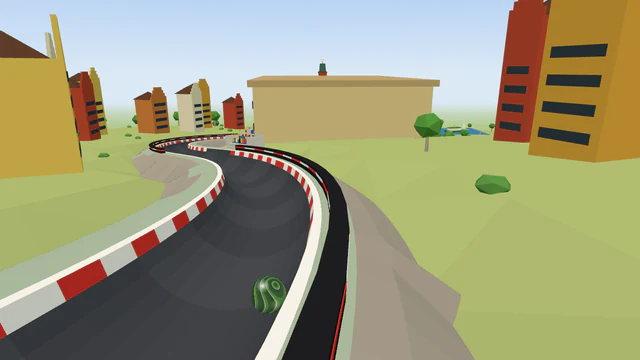
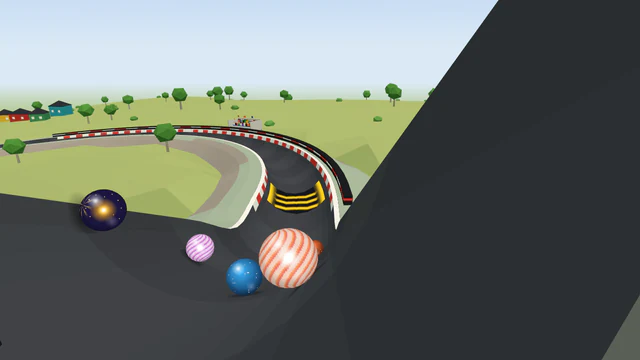
Stockholm Marble Grand Prix: its own layout; its records start again
Moses approved the plan on 6 Nov 2026 (claude/grand-prix-relayout-plan.md). Until now Stockholm was
physically the same track as Sydney and Lagos. Now a split start down the Södermalm cliffs, then the
library's climb-drop layout mirrored: the Katarina crest and the Slussen drop (the big feature and
new signature), the Gamla Stan S-bends (85°, a little steeper) and splitter (tip and inside channel
tuned), City Hall hairpin, Djurgården spiral, Strandvägen (a little steeper). Start shots: a chase,
then a low chase. Full report: all 56 lines pass (winner 49.1 s, last 81.5 s, gap 17.8 s, 63
overtakes). Data update 2027-06-01-stockholm-marble-grand-prix-new-layout.sql (--relayout: sets
tracks.records_since, so its track record, country records and personal bests start again). Off the
sameness test's known failures. The data-update test knows the --relayout form. Docs: 06, README.

Claude-Session: https://claude.ai/code/session_011vSSkqNPL9kncfzrwF15wS

diff --git a/src/tracks/stockholm-marble-grand-prix.js b/src/tracks/stockholm-marble-grand-prix.js
@@ -1,62 +1,71 @@
 'use strict';
 
-const { track, plunge, straight, sBends, sweep, spiral, hairpin, splitter, runIn, pileUp, swipe, parked, slalom, boost, rumble } = require('../trackKit');
+// Stockholm Marble Grand Prix, its own layout (Moses, 6 Nov 2026: approved as planned in
+// claude/grand-prix-relayout-plan.md). Until then it was the same track as Sydney and Lagos
+// (the Grand Prix recipe of 10 Oct 2026, mirrored); now a split start down the Södermalm cliffs,
+// over the Katarina crest and down the Slussen drop (the big feature), through Gamla Stan and round
+// it by the splitter, past City Hall and round Djurgården to the steamboats on Strandvägen. Its
+// records started again with the new layout (tracks.records_since).
+const { track, opening, layout, sBends, straight } = require('../trackKit');
+
+// Two changes to the layout, tuned over 3,000-race reports (6 Nov 2026):
+// - the Gamla Stan S-bends turn 85° each way rather than 70°: out of the 70° bends the leaders took the splitter's
+//   right-hand channel far more often than their share (64.7% of the wins with 55.8% of the marbles); out of 85° bends
+//   they come to it spread across the channel. They are a little steeper too (0.15, not 0.13), as the deeper bends
+//   slowed the back of the field (the median race's winner-to-last gap went to 18.1 s; at most 18);
+// - Strandvägen, the last straight, a little steeper (0.18, not 0.15), for the same gap.
+const deeperBends = (sections) => {
+  const out = sections.map((s) => (s.layoutKey === 'sBends' ? { ...s, shape: sBends({ first: 'right', radius: 75, degrees: 85, grade: 0.15 }) }
+    : s.layoutKey === 'lastStraight' ? { ...s, shape: straight(60, { grade: 0.18 }) } : s));
+  out.layout = sections.layout;
+  return out;
+};
 
 module.exports = track({
   slug: 'stockholm-marble-grand-prix',
   name: 'Stockholm Marble Grand Prix',
   difficulty: 'extreme',
-  description: 'A home race across Stockholm\'s islands and bridges: down the Södermalm cliffs, through Gamla Stan\'s narrow lanes, over the water past City Hall and round Djurgården to the steamboats on Strandvägen.',
+  description: 'A home race across Stockholm\'s islands and bridges: twin chutes down the Södermalm cliffs, over the Katarina crest and down the Slussen drop to the water, round Gamla Stan on both sides, past City Hall and round Djurgården to the steamboats on Strandvägen.',
   surface: 'asphalt',
   biome: 'city',
   lighting: 'day',
   variants: ['sunset', 'midnight-sun'],
   grandPrix: true,
-  signature: 'Bridge sweep',
+  signature: 'Slussen drop',
   tvCameras: [
-    { section: 'Bridge sweep', at: 0.8, side: 'right', distance: 6, height: 8 },
-    { section: 'Island splitter', at: 0.6, side: 'right', distance: 6, height: 5 },
+    // (At the foot of the drop, looking back up it with Södermalm behind.)
+    { section: 'Slussen drop', at: 0.95, side: 'right', distance: 6, height: 6 },
+    { section: 'Gamla Stan splitter', at: 0.6, side: 'right', distance: 6, height: 5 },
   ],
   billboardFrame: 'plain',
-  start: { scenery: ['colourful-houses'], shots: { countdown: 'front', launch: 'high-behind' } },
+  start: { scenery: ['colourful-houses'], gate: 'paddle', shots: { countdown: 'chase', launch: 'low-chase' } },
   finish: { landmark: 'steamboats', scenery: ['grandstand'] },
   designChanges: [
-    'The traffic-cone chicane is at the foot of the Södermalm plunge, straight after the tyre stacks, rather than in the Gamla Stan S-bends: on the bends it left too few overtakes and the field reached the splitter sorted so that one channel never gave its marbles a fair share of wins (measured on Dubai Marble Grand Prix, the same layout).',
-    'The Island splitter comes straight after the Gamla Stan S-bends, before the Bridge sweep, rather than after the City Hall hairpin: out of the hairpin the whole field rides one side of the channel and the splitter cannot share it out fairly (measured on Dubai Marble Grand Prix).',
-    'At the Island splitter the two channels run on the island\'s shores either side of it rather than each on its own bridge: the recipe allows no bridge under a splitter (its two channels have nothing proven to stand on).',
-    'The Bridge sweep\'s billboards stand along the straight to City Hall instead: the recipe has nowhere to stand a billboard on a bridge.',
-    'A 50 m straight, "Run to City Hall", before the City Hall hairpin: the recipe needs a braking zone before the one sharp bend.',
-    'The rumble strips and the parked safety car are on a straight, "Strandvägen", between the spiral and the finish rather than on the spiral and the run-in: the recipe keeps bumps off bends and the last 25 m before the line clear.',
+    'A new layout (6 Nov 2026): until then Stockholm was physically the same track as Sydney and Lagos Marble Grand Prix (the Grand Prix recipe, mirrored), so on one seed the three ran the same race. Its old signature, the Bridge sweep, was the same piece as Lagos\'s Lagoon bridge and goes.',
+    'The split start (twin chutes down the Södermalm cliffs, merging again at Slussen): no other Grand Prix track opens this way, and its start shots (a chase, then a low chase) are its own.',
+    'The rest is the library\'s climb-drop layout, mirrored, as proven on its test track: no live track uses it. Its big feature is the Slussen drop, a short climb over the Katarina crest and a 60 m drop with a slalom down to the water; its second, a splitter round Gamla Stan, with the Gamla Stan S-bends turned deeper (85°) and the splitter\'s tip and inside channel tuned so its two channels share the wins and places fairly.',
   ],
-  sections: [
-    {
-      name: 'Södermalm plunge', shape: plunge(80, { grade: 0.6 }),
-      obstacles: [pileUp({ costume: 'tyre-stack', at: 0.42 }), slalom({ costume: 'traffic-cone', from: 0.55, to: 0.97, count: 6, loss: 0.3 })],
-      scenery: ['colourful-houses'],
+  opening: opening('split-start', {
+    costumes: { block: 'tyre-stack', slalom: 'traffic-cone' },
+    names: { plunge: 'Södermalm plunge', chutes: 'Södermalm twin chutes', after: 'Down to Slussen' },
+    dress: { plunge: { scenery: ['colourful-houses'] }, chutes: { scenery: ['colourful-houses'] } },
+  }),
+  sections: deeperBends(layout('climb-drop', {
+    mirror: true,
+    costumes: { peg: 'traffic-cone', slalom: 'traffic-cone', swipe: 'camera-crane' },
+    dress: {
+      sweep: { name: 'Riddarfjärden sweep', scenery: ['crowd'] },
+      approach: { name: 'Run to the climb' },
+      climb: { name: 'Katarina crest', scenery: ['colourful-houses'] },
+      drop: { name: 'Slussen drop', scenery: ['colourful-houses'] },
+      sBends: { name: 'Gamla Stan S-bends', scenery: ['merchant-houses', 'crowd'], landmarks: [{ name: 'royal-palace', at: 0.7, side: 'right', distance: 34 }] },
+      // (Its tip moved and its inside channel a little smoother than the layout's (2.6, not 2.9; given for the unmirrored
+      // layout, so here the right-hand channel): with the deeper bends both channels share the wins and the places fairly.)
+      splitter: { name: 'Gamla Stan splitter', balance: { tipOffset: -1.6, left: { drag: 2.6, scrub: 2.6 }, right: { drag: 0.42, scrub: 0.72 } }, around: 'river-island', landmarks: [{ name: 'harbour', at: 0.5, side: 'left', distance: 24 }] },
+      brakingStraight: { name: 'Run to City Hall', landmarks: [{ name: 'city-hall', at: 0.9, side: 'right', distance: 36 }] },
+      hairpin: { name: 'City Hall hairpin' },
+      spiral: { name: 'Djurgården spiral', scenery: ['birches'], landmarks: [{ name: 'vasa-museum', at: 0.6, side: 'left', distance: 30 }] },
+      lastStraight: { name: 'Strandvägen', scenery: ['grandstand', 'haussmann'] },
     },
-    {
-      name: 'Gamla Stan S-bends', shape: sBends({ first: 'right', radius: 75, degrees: 80, grade: 0.13 }), billboards: 2, scenery: ['merchant-houses', 'crowd'],
-      landmarks: [{ name: 'royal-palace', at: 0.7, side: 'left', distance: 34 }],
-    },
-    {
-      name: 'Island splitter', shape: splitter({ side: 'right', balance: { tipOffset: 0.8, left: { drag: 0.42, scrub: 0.72 }, right: { drag: 1.32, scrub: 1.32 } } }),
-      around: 'river-island', landmarks: [{ name: 'harbour', at: 0.5, side: 'left', distance: 24 }],
-    },
-    { name: 'Bridge sweep', shape: sweep({ side: 'left', radius: 80, degrees: 160, grade: 0.07 }), features: [boost({ at: 0.08 })], bridge: 'steel' },
-    {
-      name: 'Run to City Hall', shape: straight(50, { grade: 0.12 }), billboards: 2,
-      landmarks: [{ name: 'city-hall', at: 0.9, side: 'left', distance: 36 }],
-    },
-    { name: 'City Hall hairpin', shape: hairpin({ side: 'right' }), obstacles: [swipe({ costume: 'camera-crane', side: 'high' })] },
-    {
-      name: 'Djurgården spiral', shape: spiral({ side: 'left', radius: 45, grade: 0.17 }), scenery: ['birches'],
-      landmarks: [{ name: 'vasa-museum', at: 0.6, side: 'right', distance: 30 }],
-    },
-    {
-      name: 'Strandvägen', shape: straight(90, { grade: 0.15 }),
-      obstacles: [parked({ costume: 'safety-car', at: 0.15, side: 'left', length: 8 })],
-      features: [rumble({ from: 0.55, to: 0.95, count: 4 })], billboards: 2, scenery: ['grandstand', 'haussmann'],
-    },
-    { name: 'Finish', shape: runIn(), scenery: ['grandstand'] },
-  ],
+  })),
 });

diff --git a/test/trackKit.test.js b/test/trackKit.test.js
@@ -767,7 +767,9 @@ for (const [slug, file, note] of HIDDEN_KIT_TRACKS) {
     const body = (x) => x.slice(x.indexOf('UPDATE tracks'));
     const latest = fs.readFileSync(path.join(dir, later.at(-1)), 'utf8');
     assert.match(latest, new RegExp(`^ WHERE slug = '${slug}';$`, 'm'));
-    assert.equal(body(latest), body(execFileSync(process.execPath, [script, slug, '--retune'], { encoding: 'utf8' })), `${later.at(-1)} no longer gives the track in code`);
+    // (A new layout, `--relayout`, is a re-tune that also starts the track's records again: tracks.records_since.)
+    const mode = /gets a new layout\./.test(latest) ? '--relayout' : '--retune';
+    assert.equal(body(latest), body(execFileSync(process.execPath, [script, slug, mode], { encoding: 'utf8' })), `${later.at(-1)} no longer gives the track in code`);
   });
 }
 

diff --git a/test/samenessAllTracks.test.js b/test/samenessAllTracks.test.js
@@ -49,7 +49,6 @@ const KNOWN = {
   'istanbul-marble-grand-prix': ['opening', 'opening-kind', 'layout'],
   'lagos-marble-grand-prix': ['opening', 'opening-kind', 'layout'],
   'nairobi-marble-grand-prix': ['opening', 'opening-kind', 'layout'],
-  'stockholm-marble-grand-prix': ['opening', 'opening-kind', 'layout'],
   'delhi-red-fort-marble-grand-prix': ['opening', 'opening-kind', 'layout'],
   'sahara-marble-grand-prix': ['opening', 'opening-kind', 'layout'],
   'elderglade-marble-grand-prix': ['opening', 'opening-kind', 'layout'],

diff --git a/docs/06-decisions.md b/docs/06-decisions.md
@@ -4,6 +4,7 @@
 
 | Date | Decision | Why |
 |---|---|---|
+| 2026-11-06 | **Stockholm Marble Grand Prix's new layout built** (technical, on Moses's approval of the plan): a split start (the Södermalm twin chutes), then the library's climb-drop layout mirrored: the Katarina crest and the Slussen drop (its big feature and new signature; the old Bridge sweep goes), the Gamla Stan S-bends and splitter, City Hall hairpin, Djurgården spiral, Strandvägen. Two changes to the layout from tuning: the Gamla Stan S-bends turn 85° rather than 70° (out of the 70° bends the leaders took one channel of the splitter far more often than their share) and run a little steeper, with Strandvägen too (the winner-to-last gap). The splitter's tip and inside channel are tuned (tipOffset -1.6, inside 2.6). Start shots a chase then a low chase (the planned above/low chase is Lagos's today). Full report: all 56 lines pass (winner 49.1 s, last 81.5 s, gap 17.8 s, 63 overtakes). Data update `2027-06-01-stockholm-marble-grand-prix-new-layout.sql` (`--relayout`: its records start again); it comes off the sameness test's known failures. | Stockholm raced the same race as Sydney and Lagos on every seed. |
 | 2026-11-06 | **Grand Prix re-layouts, the plan review** (Moses, 19:31). **Stockholm's new layout approved as planned** (a split start, the climb-drop layout mirrored, the Slussen drop as its big feature and a Gamla Stan splitter). **Records reset approved, personal bests included**: on a re-laid track the track record, the country records and every player's personal bests (time, split, best place) start again (`tracks.records_since`, `src/game/recordsSince.js`); past results and replays stay, and the record replays of both layouts are kept. **Jumps are capped at 3 tracks and the cap is used up**: Istanbul gets another big feature (revised plan to Moses). **Lagos gets no boost-launch opening** (it favoured the front starting group on Track and Field); the Lagoon bridge banked turn is approved; a revised opening goes to Moses. Order: the records reset and Stockholm now; Lagos and Istanbul after their revisions are approved. Videos: Sahara on 7 Nov, then Grand Prix tracks may be reused, always on a seed never used on a Grand Prix track (`client/video/DAILY-ORDER.md`). | A new layout's times can't be compared with the old one's, personal bests included; jumps stay special; the opening must not hand the race to the front gates. |
 | 2026-11-06 | **The sameness check over every track, and records reset on a new layout** (Moses, after the Grand Prix investigation). 11 of the 15 Grand Prix tracks are one design: Dubai's (Dubai, Istanbul, Nairobi, Delhi Red Fort, Sahara, Wyrmwood Hollow, Frostmere with an extra drop) and its mirror (Sydney, Lagos, Stockholm, Elderglade with a waterfall). Sydney, Lagos and Stockholm are physically identical, as are Dubai and Istanbul in practice. They were built from one recipe on 10 Oct, the day before the sameness check, and the check only ever ran in a new track's own report. Now `test/samenessAllTracks.test.js` runs it on every track; today's 24 failures (these 11, ten World Tour tracks, Amazon Water Run's layout and the three hand-built tracks) are listed exceptions that may only shrink, and the Sunday docs review reports the list. **A live track whose layout changes keeps its slug and has its track and country records reset**; past results and replays stay. Next: Lagos, Stockholm and Istanbul get their own layouts, each planned for Moses's approval first; the other Grand Prix tracks, Sydney and the World Tour failures are parked. | Identical tracks race identically (the 5 Nov videos showed it); a new layout's times can't be compared with the old one's, while past races stay as they ran. |
 | 2026-11-04 | **Click and bump about 10 dB louder** (Moses, 23:42): +8.2 dB in the files (their sharpest peaks held at -1.5 dBFS by a smooth limiter: 1 ms attack, 10 ms release, worked at 192 kHz; `scripts/convert-audio.sh` `HIT_UP_DB`, `HIT_CEILING`) and +1.8 dB in `HIT_LEVEL` (0.365–1.25): about +10 dB, the bump still 1 dB under the click. The hardest click about -1.5 dBFS as played, never over full scale; in the apps exactly full volume. Music, whoosh, start sound and beeps unchanged. Replaces the round-2 hit level. | Still too quiet on his test. The click is nearly all peak, so more loudness without a limiter would clip; the limiter keeps it clean on phone speakers and headphones. |

diff --git a/docs/README.md b/docs/README.md
@@ -9,7 +9,7 @@
 **Where it stands:**
 - **Website:** live at marblespins.com (Vercel builds every push to `Main`; redeployed by Moses on 1 Nov after the Blocks Series 2 switch-on). Soft start (social media, 10–20 invited test pilots) since the week of 26 Oct. **Official launch 1 Dec 2026**, with the Holiday Season, the season pass and the apps. Google Analytics 4 is on since 31 Oct (after cookie consent); the Meta Pixel is off.
 - **Tracks:** **143 live in ten series**: World Tour, Grand Prix, Coasters, Canyons, Blocks, Track and Field, Rivers (16), Peaks (15), Pinball and Arcade. The 31 holiday tracks are switched on but hidden and closed until 1 Dec 00:00 Swedish time (174 then). **Blocks Series 2: all 20 live** (two big features each): the test five since 31 Oct; the other fifteen (four cities, three rivers, four mountains, four winter tracks) switched on by Moses on 1 Nov after the server deploy. **Saint-Tropez** (World Tour) and **Pudong Marble Grand Prix** (Grand Prix), the first two tracks with the kit's loop, switched on by Moses on 4 Nov 2026 by hand in Railway's query box, after the server deploy; the website redeployed the same morning.
-- **Server:** deployed by Moses on 4 Nov 2026 from Main (code fingerprint `d7928db64307`, `ae7dc20`; 177 tracks in the database): Pudong Marble Grand Prix (data update `2027-05-31-add-pudong-marble-grand-prix.sql`). Before that, 3 Nov (`a096af4ab19a`, 176 tracks): the loop engine (physics for the track kit's `loop` piece) and Saint-Tropez (`2027-05-30-add-saint-tropez.sql`). Before that, 2 Nov (`fb4654c0885e`, last server change `6e23a24`; 486 columns): the back office Dashboard, staff accounts (`users.is_staff`), the first-visit steps (`first_steps`), guests made with what they tapped, the hourly IP clean-up, the Security tab loaded on its own and audited (`security-view`), and the first country in the Players list. **Waiting for the next server deploy:** the records reset on a new layout (a new column, `tracks.records_since`: **take a backup first**).
+- **Server:** deployed by Moses on 4 Nov 2026 from Main (code fingerprint `d7928db64307`, `ae7dc20`; 177 tracks in the database): Pudong Marble Grand Prix (data update `2027-05-31-add-pudong-marble-grand-prix.sql`). Before that, 3 Nov (`a096af4ab19a`, 176 tracks): the loop engine (physics for the track kit's `loop` piece) and Saint-Tropez (`2027-05-30-add-saint-tropez.sql`). Before that, 2 Nov (`fb4654c0885e`, last server change `6e23a24`; 486 columns): the back office Dashboard, staff accounts (`users.is_staff`), the first-visit steps (`first_steps`), guests made with what they tapped, the hourly IP clean-up, the Security tab loaded on its own and audited (`security-view`), and the first country in the Players list. **Waiting for the next server deploy:** the records reset on a new layout (a new column, `tracks.records_since`) and Stockholm Marble Grand Prix's new layout (data update `2027-06-01-stockholm-marble-grand-prix-new-layout.sql`, which resets its records). **Take a backup first.**
 - **Apps:** iPhone and Android (Capacitor) are built; the Android app is tested on Moses's phone. They need a rebuild for the keep-awake fix and the new sounds. Store submission is planned for 16–20 Nov.
 - **Email: on since 1 Nov 2026** (Brevo; `BREVO_API_KEY` and `EMAIL_FROM` on Railway, a password-reset email arrived in Moses's inbox; sender no-reply@marblespins.com since 4 Nov 2026, marblespins.com re-authenticated in Brevo that day, support replies with support@ as reply-to): password resets, "Confirm your email" for new sign-ups, support replies and contact-form notifications. The pass reminders are not sent yet.
 - **Payments:**
